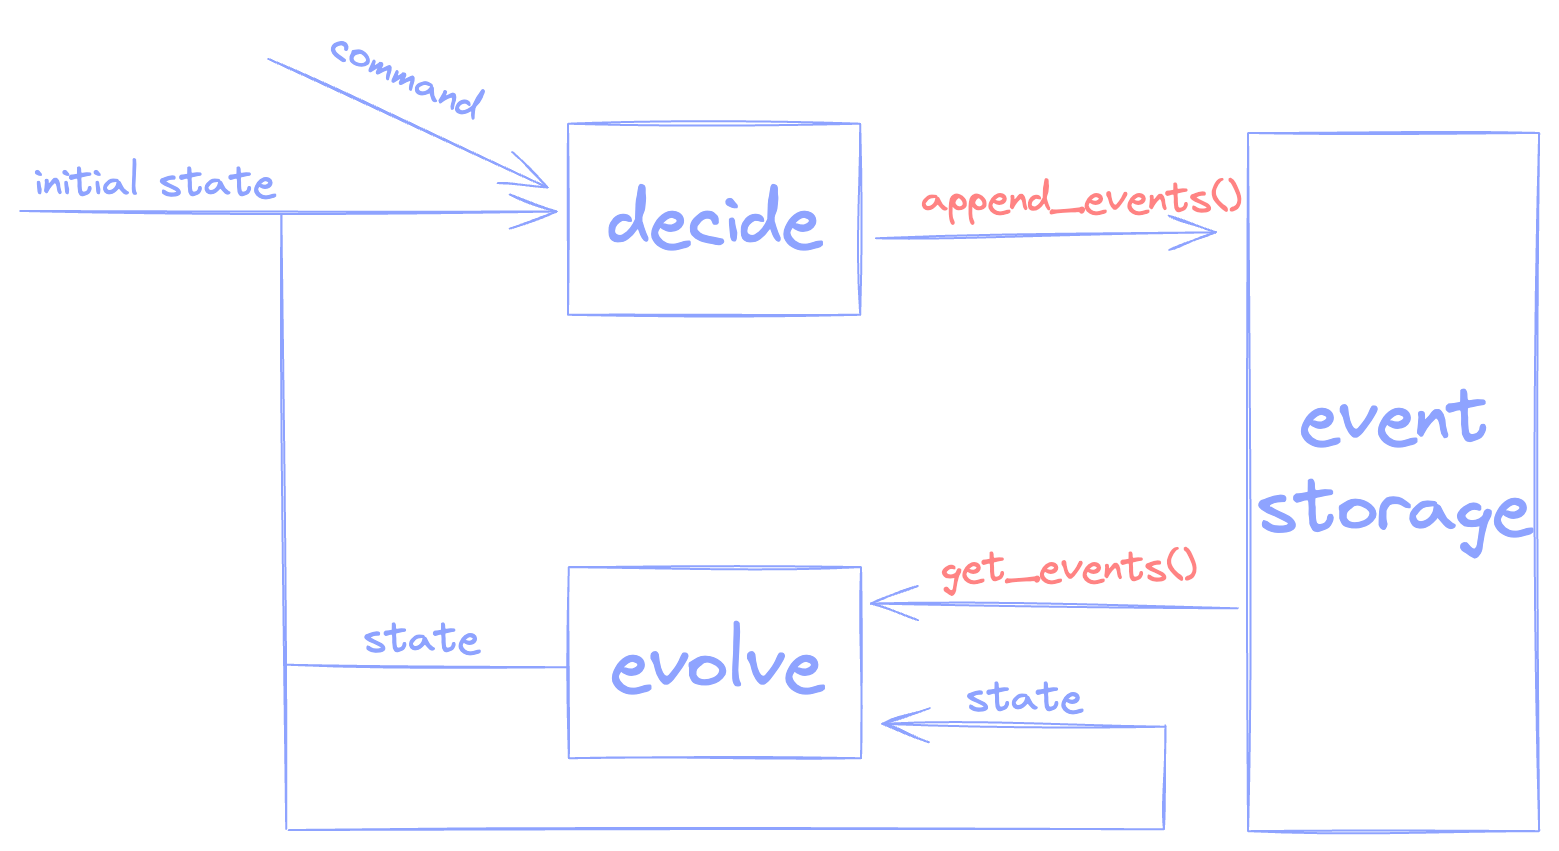
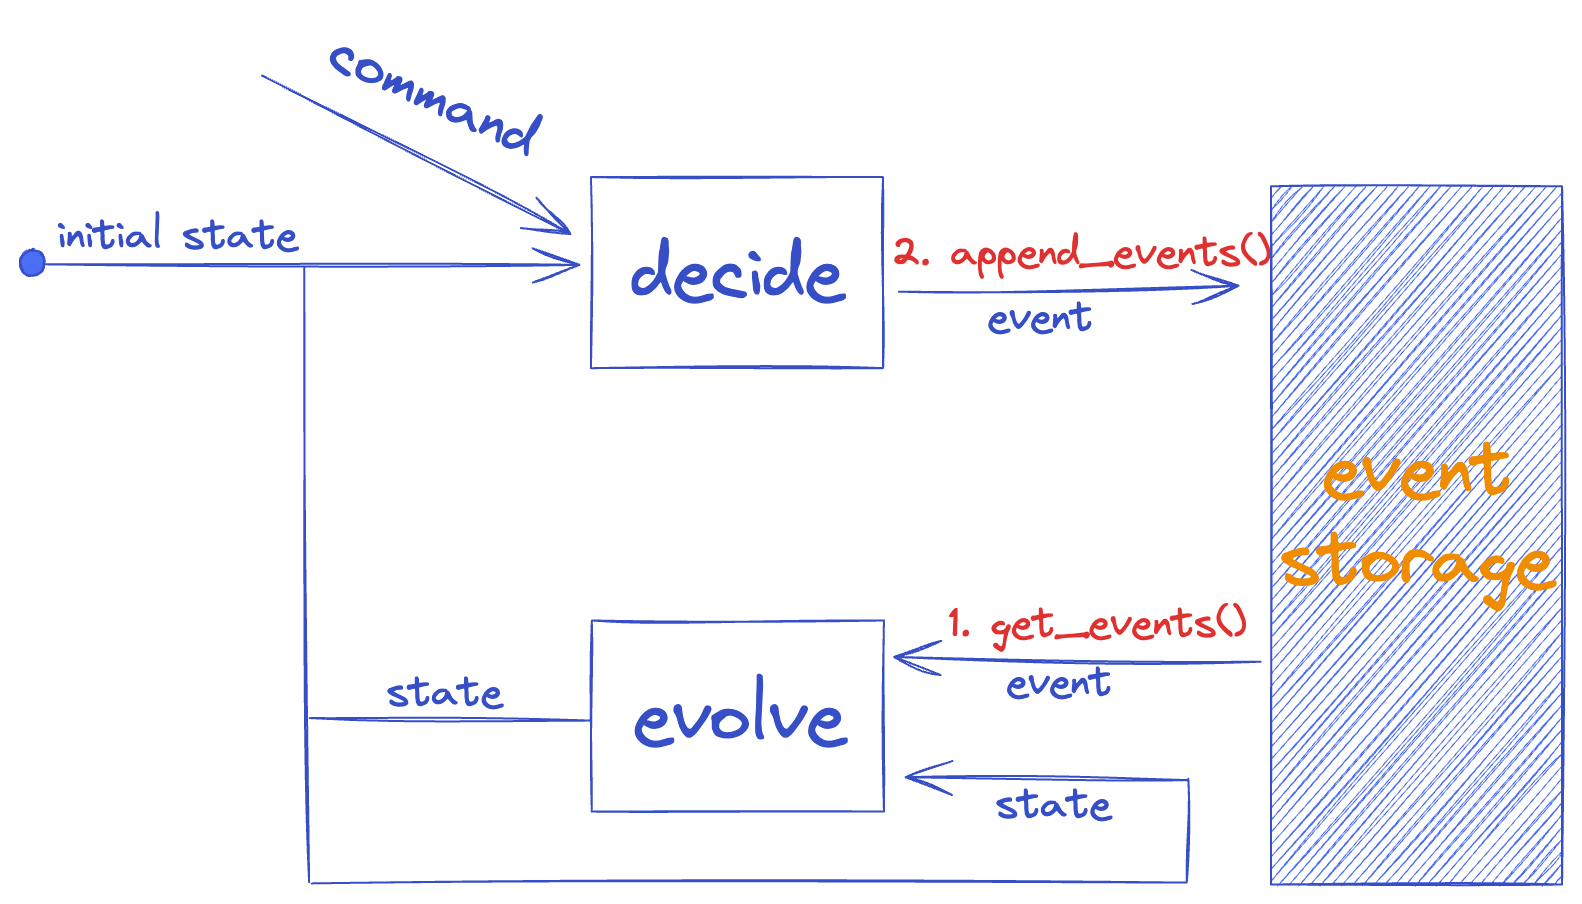
README.md updated

diff --git a/README.md b/README.md
@@ -1,6 +1,6 @@
 # fstore-sql (event-store, based on `postgres`)
 
-This project offers a seamless platform for efficiently prototyping event-sourcing and event-streaming without the need for additional infrastructural components.
+This project offers a seamless SQL model for efficiently prototyping event-sourcing and event-streaming by using Postgres database.
 
 **Check the [schema.sql](schema.sql) and [extensions.sql](extensions.sql)! It is all there!** No additional tools, frameworks, or programming languages are required at this level.
 
@@ -36,7 +36,9 @@ This model is enabling and supporting:
 - `event-streaming` to concurrently coordinate read over a stream of messages from multiple consumer instances
     - Support real-time concurrent consumers to project events to view/query models
  
-Every decider/entity stream of events is an independent **partition**. The events within a partition are ordered. There is no ordering guarantee across different partitions.
+Every decider/entity stream of events represents an independent `kafka-like` **partition**. The events within a **partition** are ordered. There is no ordering guarantee across different partitions.
+
+![CQRS](.assets/cqrs.png)
 
 **The API:**
 
